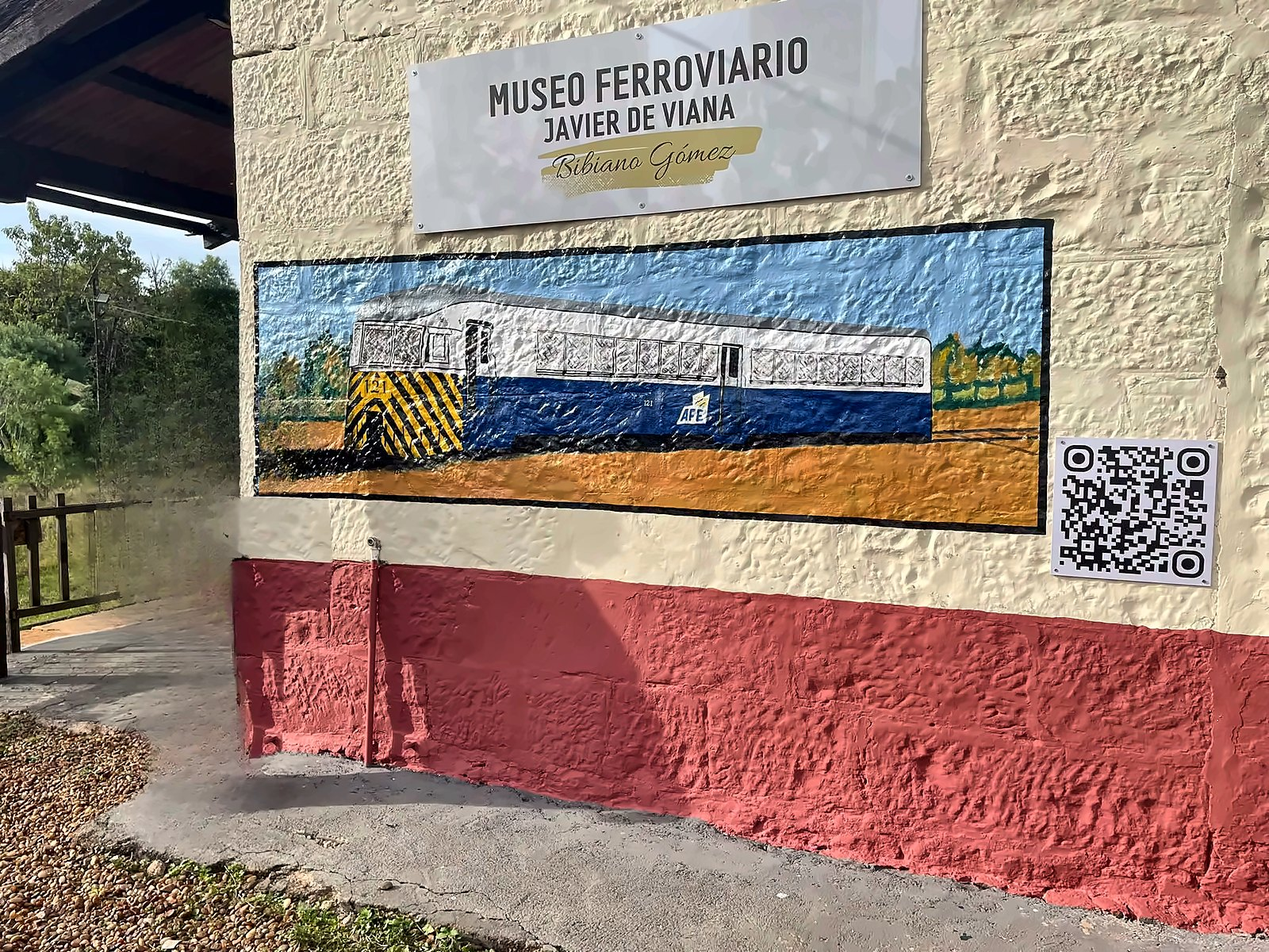
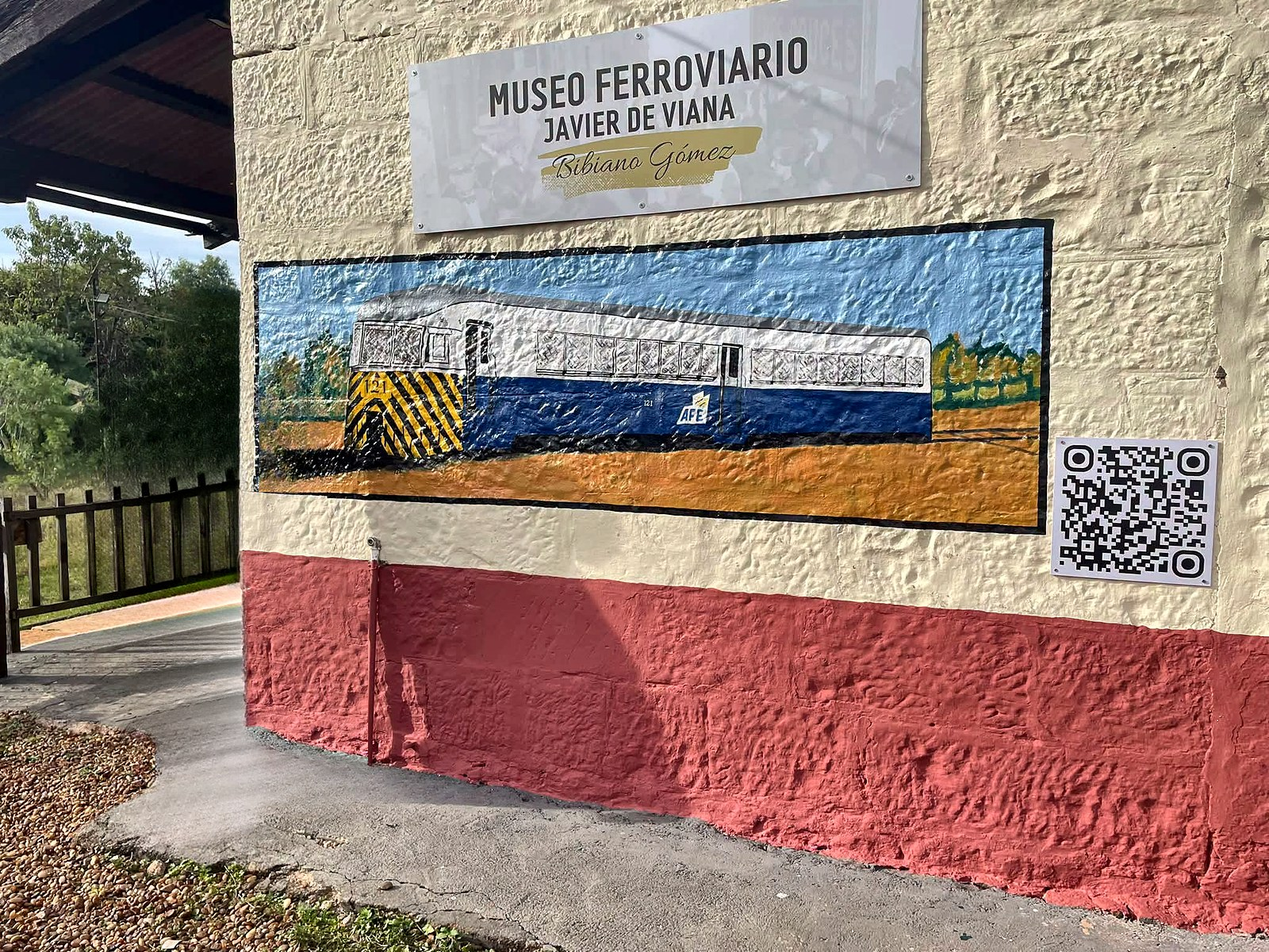
Portada mejorada y cartel de la estación
Portada mejorada y cartel de la estación

Changed region(s): [[0.0625, 0.3083, 0.375, 0.925]]

diff --git a/index.html b/index.html
@@ -1053,7 +1053,7 @@ const PLACES = [
     ]},
     {h: "Un pueblo hecho por el tren", p: [
       "En 1893 se instaló aquí, en tierras de Froilán Rodríguez, la estación de trenes «Tres Cruces». A su alrededor creció el pueblo que hoy lleva el nombre de Javier de Viana, sobre la margen norte del arroyo Tres Cruces Grande.",
-      "La estación está en el kilómetro 780 del ramal que une Baltasar Brum con la ciudad de Artigas. En enero de 2025, AFE entregó a la Intendencia de Artigas telégrafos, teléfonos y otros equipos de la estación que había conservado su último encargado, para crear un museo del ferrocarril."
+      "La estación está en el ramal que une Baltasar Brum con la ciudad de Artigas. Su viejo cartel todavía marca la distancia a la Estación Central, en Montevideo: kilómetro 780,287. En enero de 2025, AFE entregó a la Intendencia de Artigas telégrafos, teléfonos y otros equipos de la estación que había conservado su último encargado, para crear un museo del ferrocarril."
     ]},
     {h: "Qué podemos encontrar", p: [
       "En el museo se puede conocer la historia del ferrocarril, observar fotografías, herramientas y objetos antiguos, y descubrir cómo era el transporte ferroviario de antes."
@@ -1354,6 +1354,7 @@ const PHOTOS = {
   ],
   "javier-de-viana": [
     {"src": "img/javier-de-viana-1.jpg", "alt": "El cartel del museo y el mural del tren en la pared de la estación", "by": "CEI Javier de Viana", "lic": "", "page": "", "pos": "center 40%"},
+    {"src": "img/javier-de-viana-17.jpg", "alt": "El viejo cartel de la estación: «Javier de Viana. Distancia de Central K 780.287»", "by": "CEI Javier de Viana", "lic": "", "page": ""},
     {"src": "img/javier-de-viana-2.jpg", "alt": "Una de las salas del museo, con paneles, una vitrina y objetos ferroviarios", "by": "CEI Javier de Viana", "lic": "", "page": ""},
     {"src": "img/javier-de-viana-3.jpg", "alt": "El cartel del Museo Ferroviario «Bibiano Gómez»", "by": "CEI Javier de Viana", "lic": "", "page": ""},
     {"src": "img/javier-de-viana-4.jpg", "alt": "El andén de la vieja estación, con valijas antiguas", "by": "CEI Javier de Viana", "lic": "", "page": ""},

diff --git a/README.md b/README.md
@@ -37,7 +37,7 @@ La web se publica en una **organización** de GitHub llamada `cei-javierdeviana`
 1. En la organización, tocá **New repository**. Revisá que el dueño (*Owner*) sea `cei-javierdeviana`.
 2. Nombre: `descubri-artigas`. Visibilidad: **Public**. No agregues README.
 3. En el repositorio vacío, entrá al enlace **uploading an existing file**.
-4. Arrastrá **el contenido** de esta carpeta (el `index.html`, las carpetas `img` y `fichas` y el `README.md`), no la carpeta entera. GitHub acepta hasta 100 archivos por vez y esta carpeta tiene 111.
+4. Arrastrá **el contenido** de esta carpeta (el `index.html`, las carpetas `img` y `fichas` y el `README.md`), no la carpeta entera. GitHub acepta hasta 100 archivos por vez y esta carpeta tiene 112.
 5. Tocá **Commit changes**.
 
 ### 3. Activar la página
@@ -107,7 +107,7 @@ Si más adelante el CEI quiere una web propia en la dirección principal `https:
 
 ## Créditos de las fotos
 
-La mayoría de las fotos vienen de [Wikimedia Commons](https://commons.wikimedia.org) y tienen licencias libres. Las licencias CC BY y CC BY-SA piden citar al autor y la licencia: por eso cada ficha muestra estos datos y no hay que borrarlos. Las fotos del Museo Histórico Departamental salen de una lámina informativa aportada por docentes del CEI. Las del CEI Javier de Viana son de la propia institución; se mejoraron el brillo, el contraste y la nitidez, y se redujeron de tamaño para la web. Las de la Cueva del Indio son capturas del capítulo 6 del documental «La Huella de Sepé» (Identidad Antídoto y TNU, 2011), tomadas por estudiantes y mejoradas con inteligencia artificial para la web. Las del Museo Ferroviario «Bibiano Gómez» son del CEI Javier de Viana y de Víctor Hernández; en la de portada se borró con inteligencia artificial a una persona que no es Bibiano Gómez. Las fotos se redujeron o ampliaron de tamaño para la web.
+La mayoría de las fotos vienen de [Wikimedia Commons](https://commons.wikimedia.org) y tienen licencias libres. Las licencias CC BY y CC BY-SA piden citar al autor y la licencia: por eso cada ficha muestra estos datos y no hay que borrarlos. Las fotos del Museo Histórico Departamental salen de una lámina informativa aportada por docentes del CEI. Las del CEI Javier de Viana son de la propia institución; se mejoraron el brillo, el contraste y la nitidez, y se redujeron de tamaño para la web. Las de la Cueva del Indio son capturas del capítulo 6 del documental «La Huella de Sepé» (Identidad Antídoto y TNU, 2011), tomadas por estudiantes y mejoradas con inteligencia artificial para la web. Las del Museo Ferroviario «Bibiano Gómez» son del CEI Javier de Viana y de Víctor Hernández; en la de portada se borraron con inteligencia artificial dos personas (ninguna es Bibiano Gómez) y su sombra. Las fotos se redujeron o ampliaron de tamaño para la web.
 
 **Estación Fluvial de Bella Unión**
 
@@ -189,6 +189,7 @@ La mayoría de las fotos vienen de [Wikimedia Commons](https://commons.wikimedia
 **Museo Ferroviario «Bibiano Gómez» (Javier de Viana)**
 
 - `img/javier-de-viana-1.jpg` — El cartel del museo y el mural del tren en la pared de la estación. Foto: CEI Javier de Viana.
+- `img/javier-de-viana-17.jpg` — El viejo cartel de la estación: «Javier de Viana. Distancia de Central K 780.287». Foto: CEI Javier de Viana (mejorada con inteligencia artificial).
 - `img/javier-de-viana-2.jpg` — Una de las salas del museo, con paneles, una vitrina y objetos ferroviarios. Foto: CEI Javier de Viana.
 - `img/javier-de-viana-3.jpg` — El cartel del Museo Ferroviario «Bibiano Gómez». Foto: CEI Javier de Viana.
 - `img/javier-de-viana-4.jpg` — El andén de la vieja estación, con valijas antiguas. Foto: CEI Javier de Viana.
